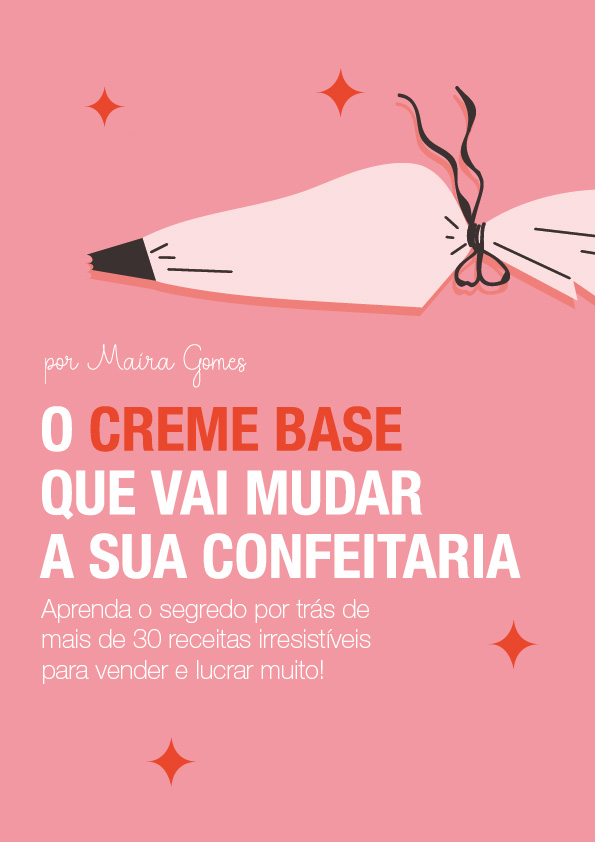
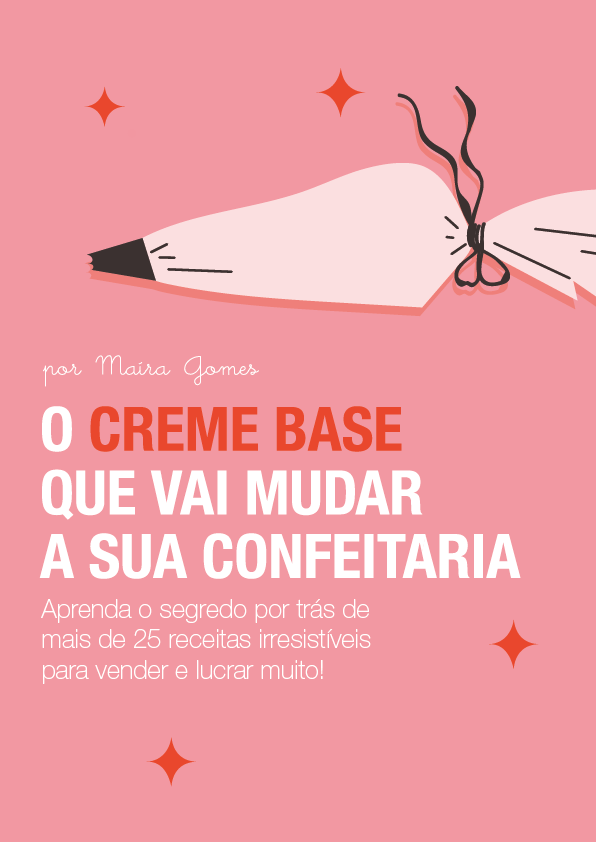
ajustes

diff --git a/frontend/index.html b/frontend/index.html
@@ -48,14 +48,13 @@
   <a onclick="return false;" 
      href="https://pay.hotmart.com/C102830197G?checkoutMode=2" 
      class="hotmart-fb hotmart__button-checkout btn-cta">
-     QUERO TER ACESSO AO EBOOK JÁ!
+     TER ACESSO AO EBOOK JÁ!
   </a>
 </div>
     </div>
 
     <div class="hero-right" aria-hidden="true">
-      <!-- coloque aqui sua imagem mosaico -->
-      <img src="banner-lp.jpg" alt="Mosaico de fotos das receitas" />
+      <img src="banner-lp.jpg" alt="Mosaico de fotos das receitas">
     </div>
   </div>
 </section>
@@ -69,7 +68,7 @@
     </h2>
 
     <p class="ebook-text">
-      Com este eBook exclusivo, você vai descobrir a receita base que é o coração de mais de 30 sobremesas!
+      Com este ebook exclusivo, você vai descobrir a receita base que é o coração de mais de 30 sobremesas!
       De bolos e doces de vitrine a sobremesas gourmet que encantam os clientes e aumentam o lucro.
       <br><br>
       Dentro das mais de 30 páginas, você vai encontrar:
@@ -88,8 +87,8 @@
     </div>
 
     <p class="ebook-bonus">
-      +RECEITA BÔNUS<br>
-      <span>Versão do creme de chocolate para ainda mais opções!</span>
+      +RECEITAS BÔNUS<br>
+      <span>Versão do creme de chocolate para ainda mais opções e receitas de apoio para te ajudar nas produções!</span>
     </p>
 
   </div>
@@ -139,7 +138,7 @@
   <a onclick="return false;" 
      href="https://pay.hotmart.com/C102830197G?checkoutMode=2" 
      class="hotmart-fb hotmart__button-checkout btn-cta">
-     QUERO TER ACESSO AO EBOOK JÁ!
+     TER ACESSO AO EBOOK JÁ!
   </a>
 </div>
       </div>
@@ -151,12 +150,10 @@
   <div class="container-uses">
 
     <div class="uses-content">
-      <!-- lado esquerdo: imagem -->
       <div class="uses-image">
         <img src="banner-lp.jpg" alt="Mosaico de sobremesas feitas com o creme base">
       </div>
 
-      <!-- lado direito: texto -->
       <div class="uses-text">
         <h2 class="uses-title">
           O que você vai <br>
@@ -168,7 +165,7 @@
           Bolos de pote<br>
           Pavês<br>
           Copos da felicidade<br>
-          Tortas e sobremesas geladas<br>
+          Bombons no pote<br>
           e mais...
         </p>
       </div>
@@ -211,7 +208,7 @@
   <a onclick="return false;" 
      href="https://pay.hotmart.com/C102830197G?checkoutMode=2" 
      class="hotmart-fb hotmart__button-checkout btn-cta">
-     QUERO TER ACESSO AO EBOOK JÁ!
+     TER ACESSO AO EBOOK JÁ!
   </a>
 </div>
   </div>
@@ -228,7 +225,7 @@
         - Apresentação<br>
         - Materiais e utensílios básicos<br>
         - O creme base<br>
-        - Receitas (+ de 30 opções com passo a passo)
+        - Receitas (+ de 25 opções com passo a passo)
       </p>
 
       <h3 class="access-subtitle">Bônus exclusivo:</h3>
@@ -270,7 +267,7 @@
   <a onclick="return false;" 
      href="https://pay.hotmart.com/C102830197G?checkoutMode=2" 
      class="hotmart-fb hotmart__button-checkout btn-cta">
-     QUERO TER ACESSO AO EBOOK JÁ!
+     TER ACESSO AO EBOOK JÁ!
   </a>
 </div>
     </div>
@@ -280,12 +277,10 @@
 <!-- SEÇÃO SOBRE A MAÍRA -->
 <section class="about-maira">
   <div class="container-maira">
-    <!-- FOTO -->
     <div class="maira-photo">
       <img src="maira-lp.jpg" alt="Foto de Maíra Gomes">
     </div>
 
-    <!-- TEXTO -->
     <div class="maira-text">
       <h2 class="maira-title">por Maíra Gomes</h2>
 
@@ -308,13 +303,19 @@
       <p>
         Hoje, ela compartilha não só receitas, mas também o conhecimento que acumulou ao longo dos anos, para ajudar outras pessoas a viverem da confeitaria e conquistarem a independência que sempre sonharam.
       </p>
-    </div>
+ 
+<p>
+  Acompanhe mais receitas e dicas no Instagram:
+  <a href="https://www.instagram.com/boutiquedocaramell" target="_blank" class="btn-instagram">
+    @boutiquedocaramell
+  </a>
+</p>
   </div>
+     </div>
 </section>
 
 <section class="faq-section">
   <div class="container-faq">
-    <!-- CABEÇALHO -->
     <div class="faq-header">
       <div class="faq-left">
         <h2 class="faq-title">Ficou com<br> alguma dúvida?</h2>
@@ -323,14 +324,19 @@
         </p>
       </div>
 
-      <div class="faq-right">
-        <div class="faq-whatsapp">
-          <img src="icon-whatsapp.svg" alt="WhatsApp">
-          <div class="faq-whatsapp-text">
-            <strong>ATENDIMENTO</strong>
-            <span>Toque aqui para tirar suas dúvidas.</span>
-          </div>
-        </div>
+<div class="faq-right">
+  <a 
+    href="https://wa.me/5515981150530?text=Olá!+Gostaria+de+saber+mais+sobre+o+ebook." 
+    target="_blank" 
+    class="faq-whatsapp"
+  >
+    <img src="icon-whatsapp.svg" alt="WhatsApp">
+    <div class="faq-whatsapp-text">
+      <strong>ATENDIMENTO</strong>
+      <span>Toque aqui para tirar suas dúvidas.</span>
+    </div>
+  </a>
+</div>
     </div>
 
     <!-- PERGUNTAS -->
@@ -392,8 +398,6 @@
       </div>
     </div>
     </div>
-  </div>
-
 
 <div class="disclaimer">
   <p>© 2025 | Maíra Gomes & ViaMundo Marketing. Todos os direitos reservados.</p>
@@ -405,7 +409,7 @@
 </div>
 
 </section>
-</body>
+
 
 <script>
   const faqItems = document.querySelectorAll('.faq-item');
@@ -426,15 +430,17 @@
       entries.forEach(entry => {
         if (entry.isIntersecting) {
           entry.target.classList.add("visible");
-          observer.unobserve(entry.target); // para não repetir a animação
+          observer.unobserve(entry.target); 
         }
       });
-    }, { threshold: 0.2 }); // animação quando 20% da seção estiver visível
+    }, { threshold: 0.2 }); 
 
     sections.forEach(section => {
       section.classList.add("fade-in-section");
       observer.observe(section);
     });
   });
- 
 </script>
+
+</body>
+</html>

diff --git a/frontend/style.css b/frontend/style.css
@@ -675,11 +675,14 @@ html, body {
   cursor: pointer;
   transition: transform 0.2s ease, box-shadow 0.2s ease;
   box-shadow: 0 8px 20px rgba(255,255,255,0.15);
+    text-decoration: none; 
 }
 
 .faq-whatsapp:hover {
   transform: translateY(-3px);
   box-shadow: 0 12px 30px rgba(255,255,255,0.25);
+    text-decoration: none;
+
 }
 
 .faq-whatsapp img {
@@ -1327,4 +1330,16 @@ a.hotmart-fb.hotmart__button-checkout.btn-cta:hover {
   background-color: #d97706 !important;
   transform: scale(1.03) !important;
   color: #fff !important;
+}
+
+.btn-instagram {
+  color: #dd6f84; /* rosa da paleta */
+  font-weight: 600;
+  text-decoration: none;
+  transition: color 0.2s ease;
+}
+
+.btn-instagram:hover {
+  color: #e7462c; /* tom mais intenso no hover */
+  text-decoration: underline;
 }
